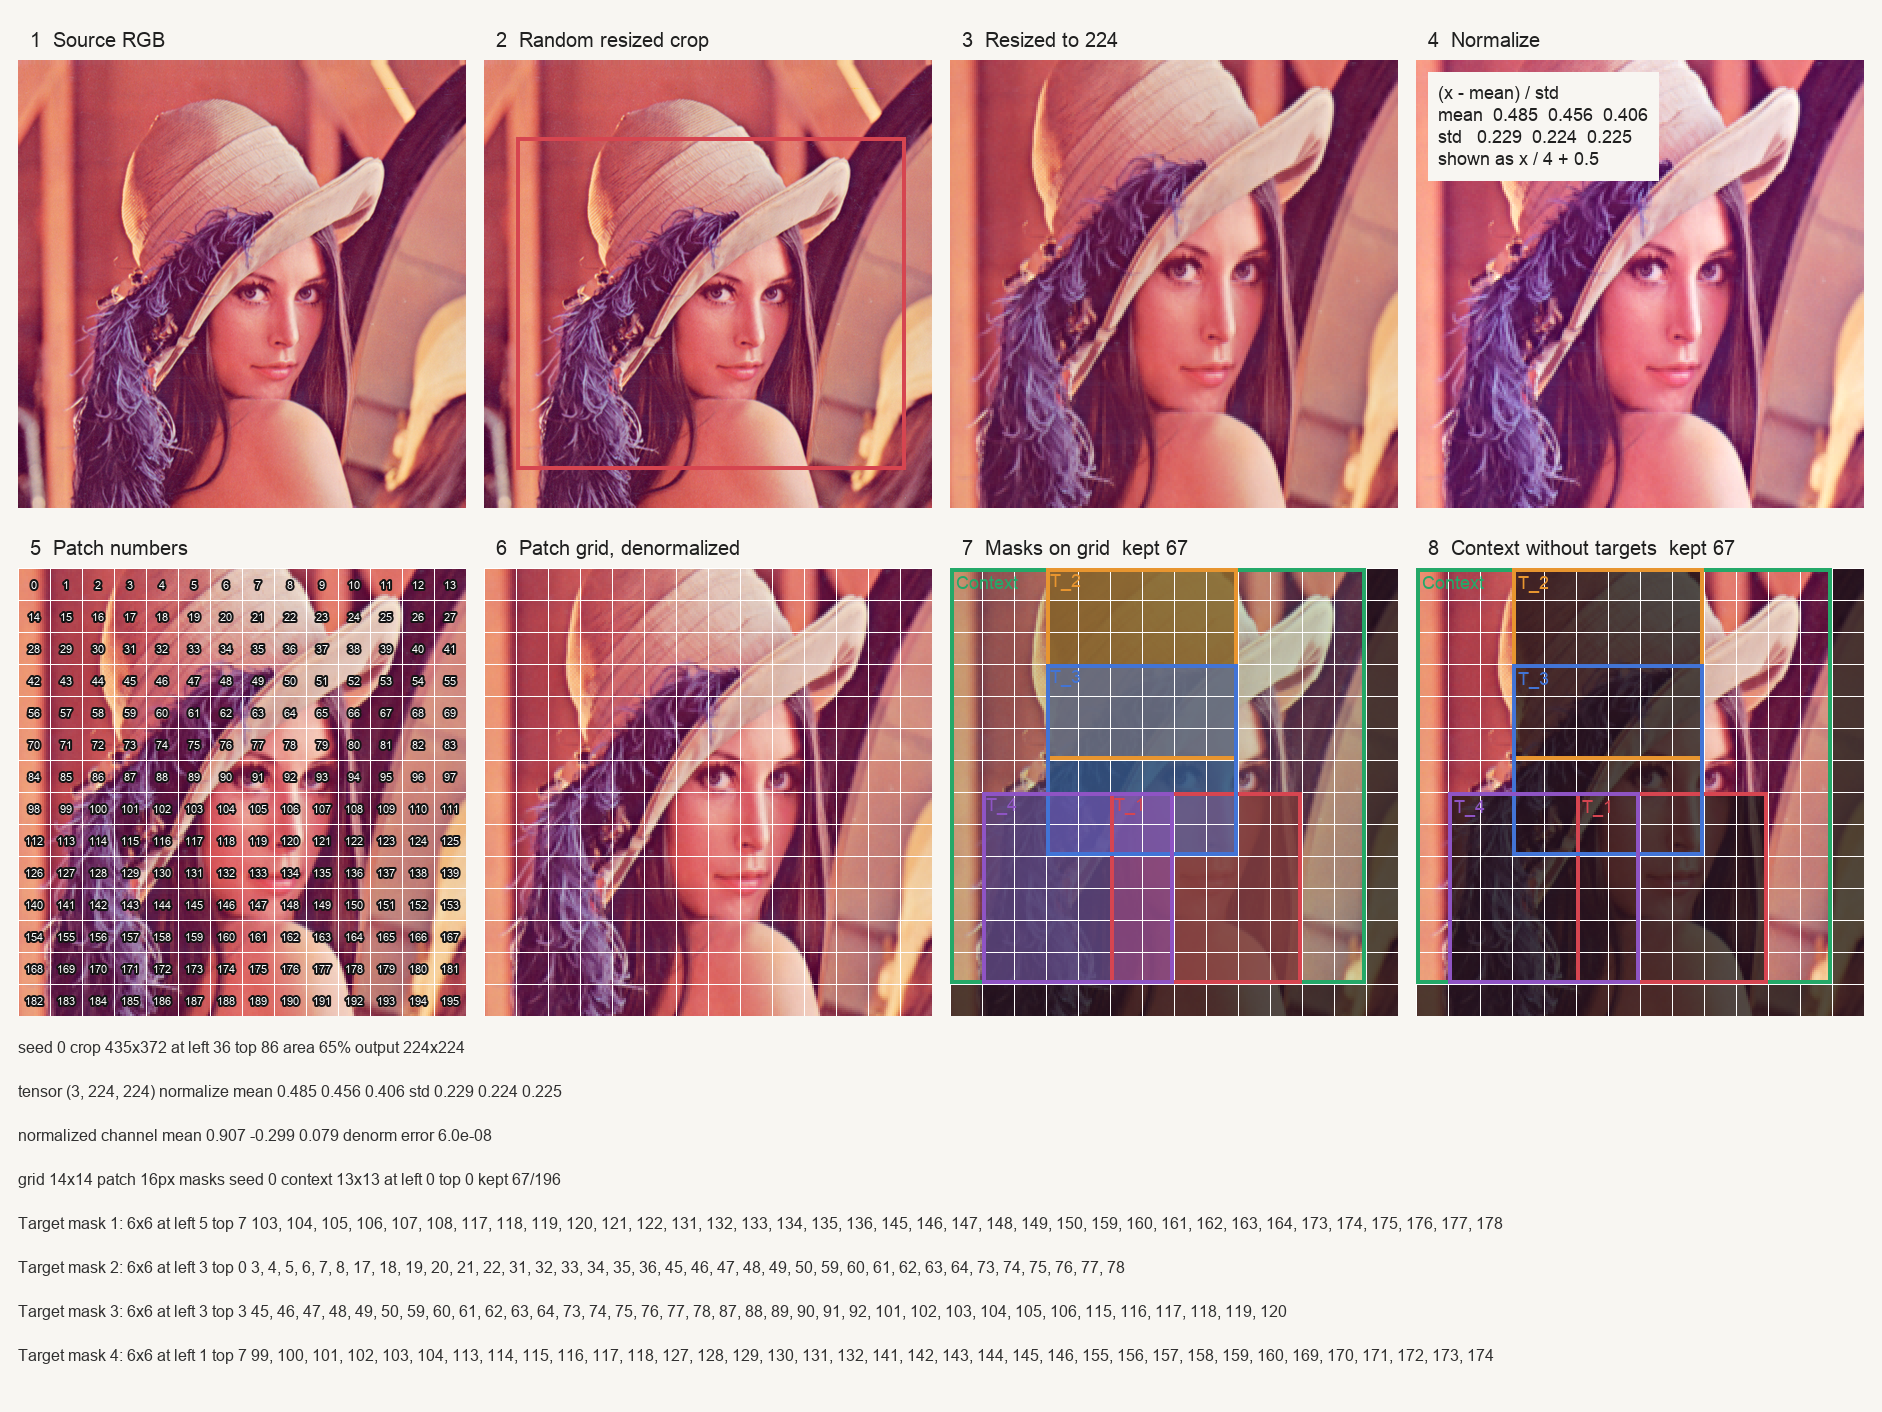
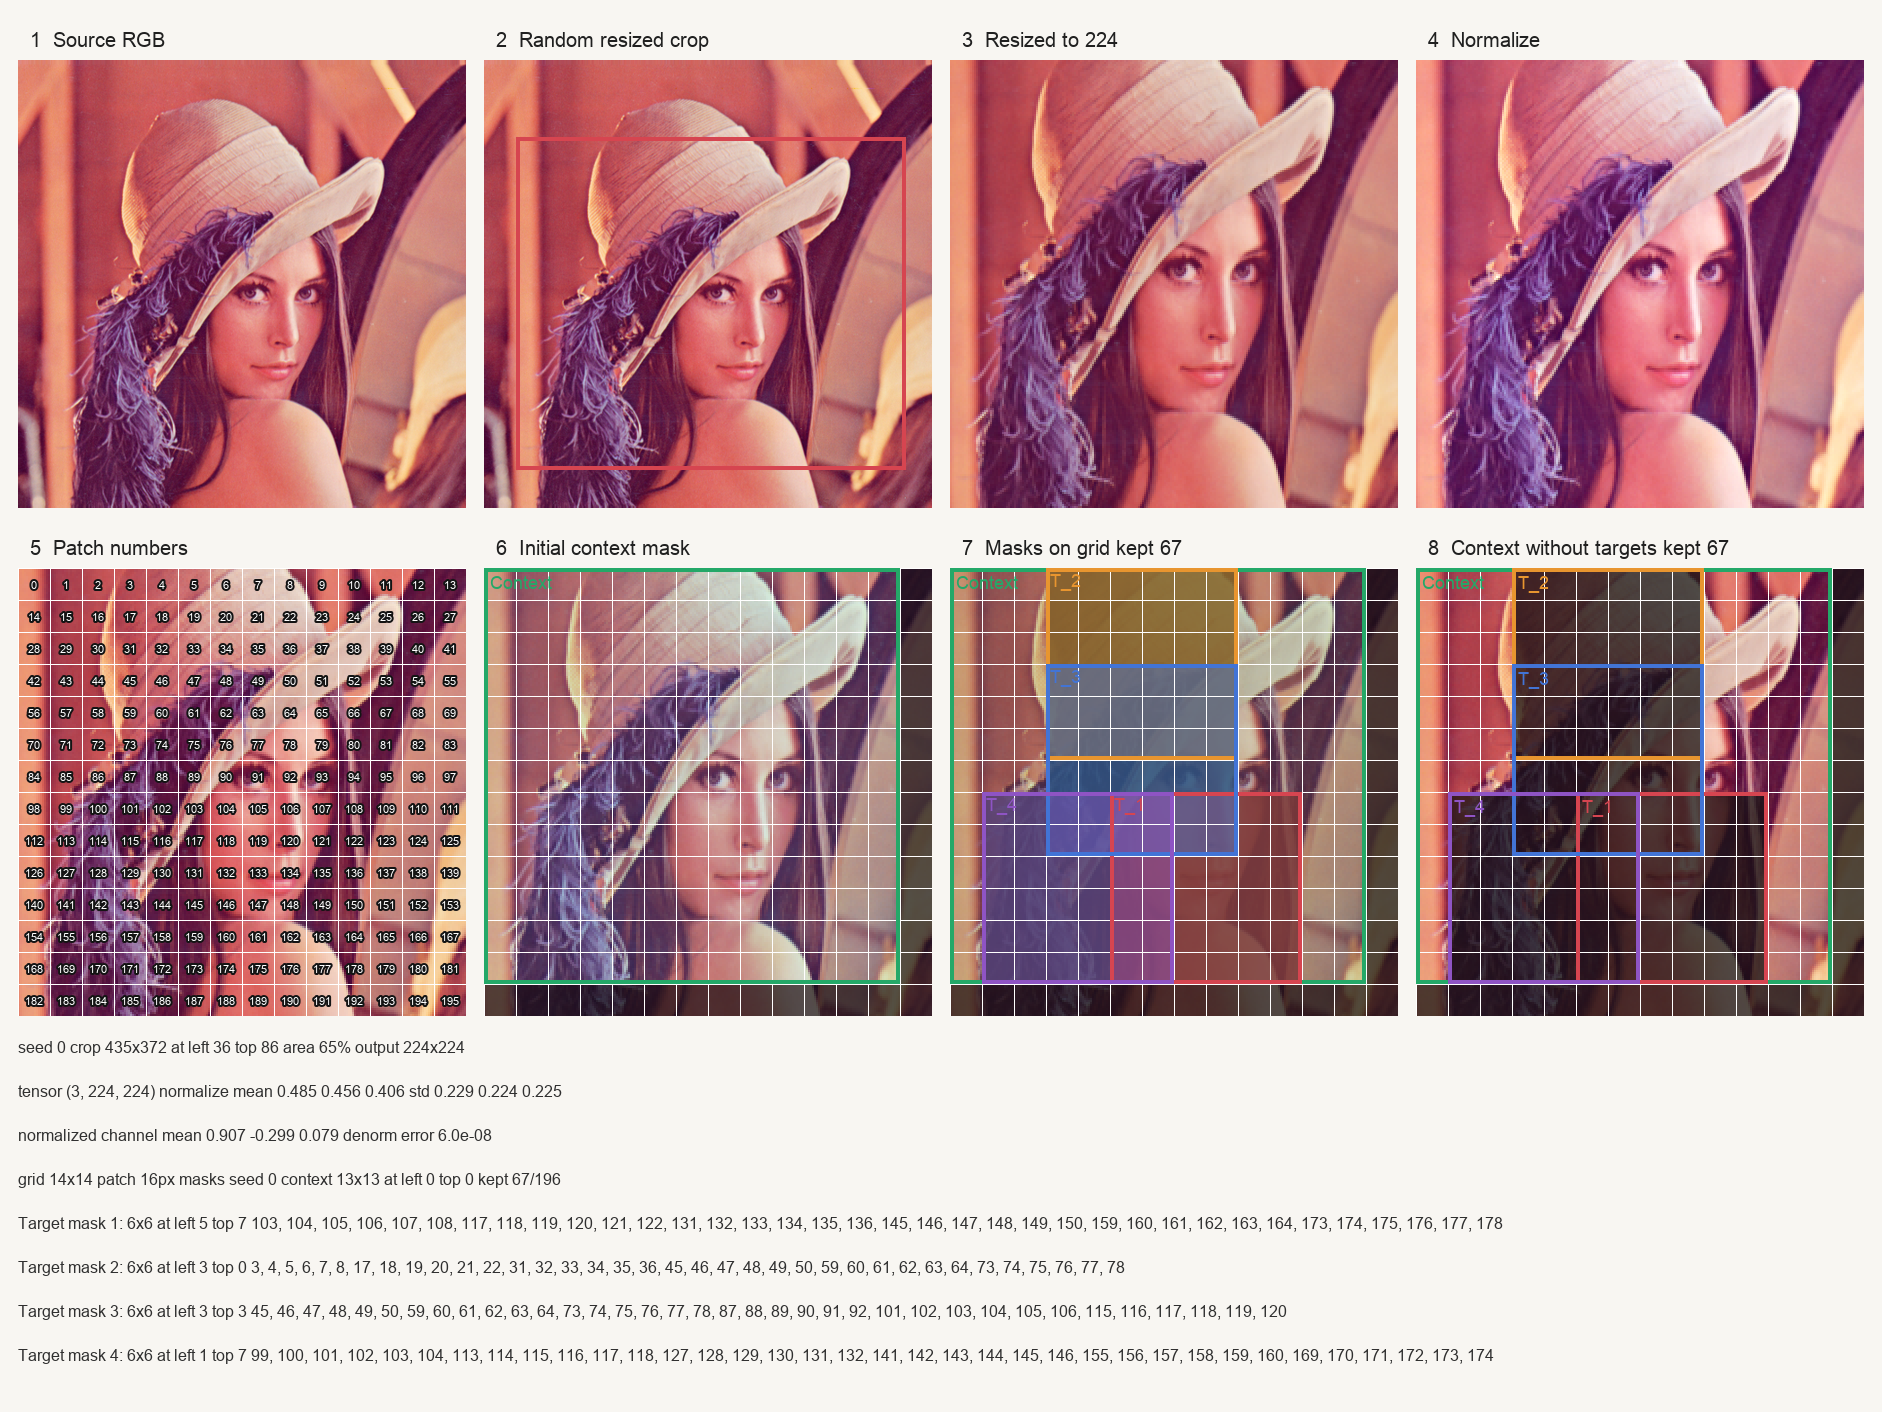
update visualization of masks

diff --git a/example/visualize.py b/example/visualize.py
@@ -220,27 +220,9 @@ def _show_denormalized(tensor):
     return image.resize((PANEL, PANEL), Image.Resampling.NEAREST)
 
 
-def _normalize_view(tensor):
+def _show_normalized(tensor):
     shown = (tensor * 0.25 + 0.5).clamp(0, 1)
-    image = T.ToPILImage()(shown).resize((PANEL, PANEL), Image.Resampling.NEAREST)
-    draw = ImageDraw.Draw(image)
-    font = _font(18)
-    lines = (
-        "(x - mean) / std",
-        f"mean  {MEAN[0]:.3f}  {MEAN[1]:.3f}  {MEAN[2]:.3f}",
-        f"std   {STD[0]:.3f}  {STD[1]:.3f}  {STD[2]:.3f}",
-        "shown as x / 4 + 0.5",
-    )
-    line_h = 22
-    pad = 10
-    width = max(draw.textlength(line, font=font) for line in lines)
-    box = (12, 12, int(12 + pad * 2 + width), 12 + pad * 2 + line_h * len(lines))
-    draw.rectangle(box, fill=PAPER)
-    y = 12 + pad
-    for line in lines:
-        draw.text((12 + pad, y), line, fill=INK, font=font)
-        y += line_h
-    return image
+    return T.ToPILImage()(shown).resize((PANEL, PANEL), Image.Resampling.NEAREST)
 
 
 def _number_view(image, patch_size, grid):
@@ -264,13 +246,6 @@ def _number_view(image, patch_size, grid):
                 stroke_width=2,
                 stroke_fill=(20, 20, 20),
             )
-    return view
-
-
-def _grid_view(image, patch_size):
-    view = image.copy()
-    draw = ImageDraw.Draw(view)
-    _draw_grid(draw, view.width, patch_size, (255, 255, 255))
     return view
 
 
@@ -432,22 +407,27 @@ def main():
 
     display_patch = PANEL // grid
     model = _show_denormalized(normalized)
+    normalized_view = _show_normalized(normalized)
     kept = int(context_indices.numel())
     title_font = _font(20)
     panels = [
         _panel("1  Source RGB", source_view, title_font),
         _panel("2  Random resized crop", crop_view, title_font),
         _panel("3  Resized to 224", _show_pil(stages["RandomResizedCrop"]), title_font),
-        _panel("4  Normalize", _normalize_view(normalized), title_font),
+        _panel("4  Normalize", normalized_view, title_font),
         _panel("5  Patch numbers", _number_view(model, display_patch, grid), title_font),
-        _panel("6  Patch grid, denormalized", _grid_view(model, display_patch), title_font),
         _panel(
-            f"7  Masks on grid  kept {kept}",
+            "6  Initial context mask",
+            _mask_view(normalized_view, [], crop, display_patch),
+            title_font,
+        ),
+        _panel(
+            f"7  Masks on grid kept {kept}",
             _mask_view(model, blocks, crop, display_patch, excluded_blocks),
             title_font,
         ),
         _panel(
-            f"8  Context without targets  kept {kept}",
+            f"8  Context without targets kept {kept}",
             _context_holes_view(model, crop, excluded_blocks, display_patch),
             title_font,
         ),
